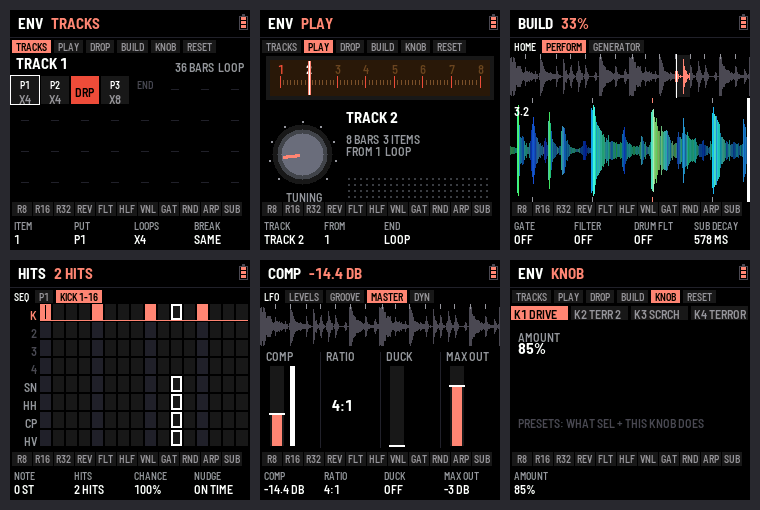
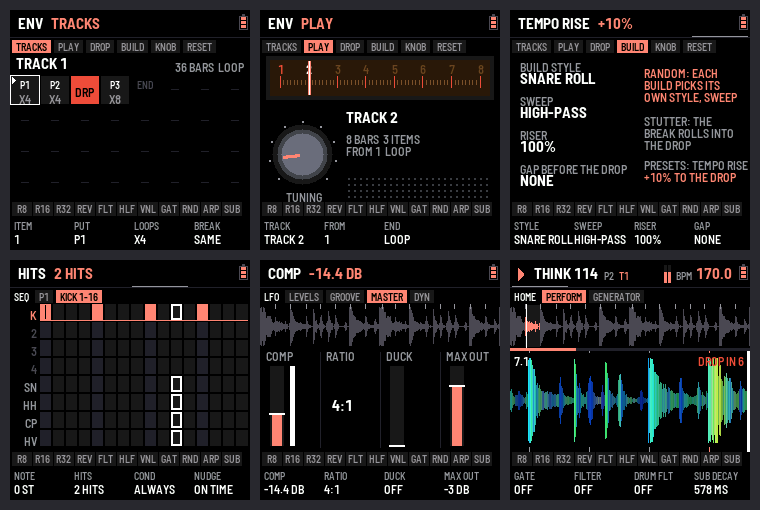
LOAF BREAKER takes the test firmware's changes (test-v9.03); its README, manual and site with them
The test firmware merged as it was tried: FILL on ARP, a drum step's COND, the kick's
GLIDE and REVERSE BASS, MB OTT, BUILD's TEMPO RISE, the visuals (CRT, beat-lit tempo,
kick flashes, the track's progress and DROP IN, the kick's live scope, knob arcs, a
glitched start-up, the build's lights), HOTPANT and the OVERLAY page out.

The README in LOAF BREAKER's dress: its picture, the site's links, what it is for; the
manual, the control map and the site's front page as the firmware is now (8 breaks,
FILL, COND, BASS, MB OTT, TEMPO RISE, CRT); the screenshots taken again; loaftest in
the release's scenarios.

Claude-Session: https://claude.ai/code/session_01SezACdoJJxH9cT2JHvLkit

diff --git a/app/site/controlmap.html b/app/site/controlmap.html
@@ -167,10 +167,10 @@
       { n: "GENERATOR", k: ["COMPLEXITY", "ANCHOR", "ROLL", "FILL"], strip: "16 SLICE BLOCKS", note: "HOME again" } ],
       algo: "Break (next bar)", brk: true, presets: "Pattern P1–P16", keys: "slices",
       notes: [["SEL", "Pressed alone: every combination"], ["SEL + ALGO · SEL + PRESETS", "Break · pattern, any page"], ["ARP", "The overlays"]] },
-    { id: "arp", btn: "ARP", name: "OVERLAY", sub: "Sixteen effects to hold", again: "nothing", subs: [
-      { n: "OVERLAY", k: ["AMOUNT", "RATE", "SWEEP", "LATCH"], strip: "16 EFFECT CARDS, 4 × 4 · LIT WHILE ON · EACH ITS AMOUNT", note: "Hold a key: its effect, over everything" } ],
-      algo: "Break", presets: "Pattern P1–P16", keys: "overlays",
-      notes: [["Keys 1-8", "DIVE RISE RADIO WAH CRUSH LO-FI DIST RING"], ["Keys 9-16", "CHOP GATE DUCK PAN BOOM WOBBLE JET CUT"], ["K4 LATCH", "A press on, a press off (stays on other pages)"], ["SEL + ARP", "A random pattern (SEL + SAVE undoes)"]] },
+    { id: "arp", btn: "ARP", name: "FILL", sub: "Held: a fill", again: "nothing", subs: [
+      { n: "FILL", k: ["", "", "", ""], strip: "THE PAGE YOU ARE ON STAYS", note: "Hold: FILL steps play, NOT FILL rest, the snare rolls the last beat" } ],
+      algo: "Break", presets: "Pattern P1–P16", keys: "slices",
+      notes: [["ARP held", "FILL, while held"], ["SEL + ARP", "A random pattern (SEL + SAVE undoes)"], ["ARP black key", "Its overlay effect, as ever"]] },
     { id: "fx", btn: "FX", name: "FX CHAIN", sub: "Four slots in series", again: "next part (MAIN, MORE, MOD), then the next slot", part: true, subs: [
       { n: "MAIN", k: ["PARAM 1", "PARAM 2", "PARAM 3", "MIX"], strip: "THE EFFECT LIVE · THE CHAIN · ITS MODULATOR · IN / OUT", note: "ALGORITHM: the slot (1–4)" },
       { n: "MORE", k: ["EXTRA 1", "EXTRA 2", "EXTRA 3", "EXTRA 4"], strip: "THE EFFECT LIVE · THE CHAIN · ITS MODULATOR · IN / OUT", note: "each effect its own: see §6" },
@@ -178,15 +178,15 @@
       algo: "Slot", presets: "Effect", keys: "slices",
       notes: [["SEL + FX", "Bypass the focused slot"], ["FX held + ALGO", "Move the slot along the chain"], ["Key held + FX", "That key's slice effect on K1–K4"],
               ["MB COMP focused", "FX again steps AMOUNT · LOW · MID · HIGH · GAIN · X-OVER, then the next slot"],
-              ["MB COMP · band", "THRESH · RATIO · ATTACK · RELEASE"], ["MB COMP · GAIN / X-OVER", "LOW MID HIGH SOLO · LOW X HIGH X KNEE OUTPUT"]] },
-    { id: "glo", btn: "GLO", name: "GLOBAL", sub: "MIDI, pitch, Bluetooth audio", again: "next part (3)", subs: [
-      { n: "MIDI", k: ["CLOCK IN", "CLOCK OUT", "BLUETOOTH", "MIDI TO"], strip: "BLUETOOTH · CLOCK IN · CLOCK OUT · PORTS", note: "status" },
+              ["MB COMP · band", "THRESH · RATIO · ATTACK · RELEASE"], ["MB COMP · GAIN / X-OVER", "LOW MID HIGH SOLO · LOW X HIGH X KNEE OUTPUT"], ["PRESETS after MB COMP", "MB OTT; in KICK FX also MB KICK"]] },
+    { id: "glo", btn: "GLO", name: "GLOBAL", sub: "MIDI, pitch, skins", again: "next part (3)", subs: [
+      { n: "MIDI", k: ["CLOCK IN", "CLOCK OUT", "", "MIDI TO"], strip: "CLOCK IN · CLOCK OUT · PORTS", note: "USB and the TRS jack, no Bluetooth" },
       { n: "PITCH", k: ["PITCH", "GRAIN", "SNAP", "RESET ALL"], strip: "PITCH MODE · GRAIN · SNAP", note: "what the snap is in this break" },
-      { n: "BT AUDIO", k: ["BT AUDIO", "DEVICE · CODEC*", "SCAN · TEST L/R*", "CONNECT"], strip: "BT AUDIO: STATE · DEVICES", note: "* while streaming" } ],
-      algo: "Part", presets: "Pattern P1–P16", keys: "slices", notes: [["K4 RESET ALL", "Turn twice within 3 s"]] },
+      { n: "MORE", k: ["SKIN", "AUTO SAVE", "CRT", ""], strip: "THE SKINS' COLOURS", note: "CRT: an old tube's lines" } ],
+      algo: "Part", presets: "Pattern P1–P16", keys: "slices", notes: [["K4 RESET ALL", "Fifteen turns right"]] },
     { id: "edit", btn: "EDIT", name: "KICK", sub: "The kick, in four sections; SEL + EDIT: the other drums", again: "next section (4)", part: true, subs: [
       { n: "SOUND", k: ["(MIX, SUB, PUNCH,", "GRIT, CLICK,", "OUT: ALGO)", ""], strip: "THE KICK'S WAVE, ITS PITCH FALLING · 4 KNOB CARDS", note: "MIX: SUB PUNCH GRIT CLICK; a layer: LEVEL PITCH DECAY TONE" },
-      { n: "SYNTH", k: ["DROP · RUMBLE", "TIME · LENGTH", "SHAPE · ASYM", "HOLD · TUNE"], strip: "THE KICK'S WAVE · 4 KNOB CARDS", note: "SYNTH, SYNTH +, MACRO" },
+      { n: "SYNTH", k: ["DROP · RUMBLE", "TIME · LENGTH", "SHAPE · ASYM", "HOLD · TUNE"], strip: "THE KICK'S WAVE · 4 KNOB CARDS", note: "SYNTH, SYNTH +, BASS (GLIDE, REV BASS, START, CURVE), MACRO" },
       { n: "DIRT", k: ["AMOUNT · DRIVE", "SUB · TYPE", "FIZZ · SCREECH", "SUSTAIN · TAIL"], strip: "THE KICK'S WAVE · 4 KNOB CARDS", note: "TERROR, TERROR +, TERROR 2, the layers' effects" },
       { n: "TONE", k: ["LOW", "MID", "HIGH", "FREQ"], strip: "ITS EQ CURVE · ITS FX SLOTS", note: "EQ BANDS, EQ SHAPE, FX 1, FX 2" },
       { n: "SNARE · HAT · CLAP · HOOVER", k: ["LEVEL", "TUNE", "DECAY", "TONE"], strip: "6 SETTINGS · THE 5 DRUMS", note: "SEL + EDIT; EDIT again: the next" } ],
@@ -202,7 +202,7 @@
       { n: "TRACKS", k: ["ITEM", "PUT", "LOOPS", "BREAK"], strip: "THE TRACK'S 32 ITEMS: PATTERNS, DROPS", note: "a white key puts its pattern in; ALGORITHM moves along the items; ENV held: a space after the item; SEL + PLAY: start here; PLAY: the track from there" },
       { n: "PLAY", k: ["TRACK", "FROM", "END", ""], strip: "THE TRACK, THE ITEM PLAYING", note: "PLAY: the track, then HOME" },
       { n: "DROP", k: ["BUILD", "AFTER", "BREAK", "CRASH"], strip: "THE DROP'S SETTINGS", note: "SEL x3: the build from the next bar" },
-      { n: "BUILD", k: ["STYLE", "SWEEP", "RISER", "GAP"], strip: "THE BUILD BEFORE A DROP", note: "RANDOM: each build its own" },
+      { n: "BUILD", k: ["STYLE", "SWEEP", "RISER", "GAP"], strip: "THE BUILD BEFORE A DROP", note: "PRESETS: TEMPO RISE, up to +30 % to the drop" },
       { n: "KNOB", k: ["(ITS 1ST)", "(ITS 2ND)", "(ITS 3RD)", "(ITS 4TH)"], strip: "WHAT SEL + K1..K4 DOES", note: "ALGO the knob, PRESETS its function" },
       { n: "RESET", k: ["WHAT", "", "", "RESET"], strip: "DROP · BUILD · KNOB BACK TO THE START", note: "K4 right twice within 3 s" } ],
       algo: "TRACKS: the item; else the break (next bar)", brk: true, presets: "Track 1–8", keys: "patterns / tracks",
@@ -210,7 +210,7 @@
     { id: "seq", btn: "SEQ", name: "SEQUENCER", sub: "16 patterns, all the steps", again: "next lane (5)", subs: [
       { n: "1-16", k: ["SLICE", "PITCH", "HITS", "REVERSE"], strip: "16 STEPS · THE DRUM LANES", note: "the step edited outlined" },
       { n: "17-32", k: ["SLICE", "PITCH", "HITS", "REVERSE"], strip: "16 STEPS · THE DRUM LANES", note: "" },
-      { n: "KICK", k: ["FILL", "DRUM FLT", "CLR / 4X4", "LENGTH"], strip: "THE KEYS: THIS LANE'S STEPS · LANES", note: "a step held: NOTE, HITS, CHANCE, NUDGE" },
+      { n: "KICK", k: ["FILL", "DRUM FLT", "CLR / 4X4", "LENGTH"], strip: "THE KEYS: THIS LANE'S STEPS · LANES", note: "a step held: NOTE, HITS, COND (chance, 1:2, 2:2, FILL, NOT FILL), NUDGE" },
       { n: "SNARE", k: ["FILL", "DRUM FLT", "CLR / 4X4", "LENGTH"], strip: "THE KEYS: THIS LANE'S STEPS · LANES", note: "" },
       { n: "HAT", k: ["FILL", "DRUM FLT", "CLR / 4X4", "LENGTH"], strip: "THE KEYS: THIS LANE'S STEPS · LANES", note: "" } ],
       algo: "Lane", presets: "Pattern P1–P16", keys: "steps",

diff --git a/app/docs/MANUAL.md b/app/docs/MANUAL.md
@@ -51,7 +51,9 @@ The slicer view, top to bottom:
 
 - **Header:** play or stop, the break's name, the pattern (P1–P16; "P2>" while P2 waits for the loop's end), REC
   while recording, a level meter (left and right, what leaves after MASTER: amber from
-  −8 dB, white near full scale), the tempo.
+  −8 dB, white near full scale), the tempo: lit white on each beat. The line under the header flashes on each kick
+  and a tick under it walks the bar's four beats. The PLAY light blinks off on each kick, and during a build the
+  next white key to light blinks, faster as the drop nears.
 - **Tabs:** the button you pressed (as printed on the panel), then the page's parts as tabs, the one you are on lit:
   the button again (or ALGORITHM) goes to the next. On EDIT and FX the part edited shows at the right, "< SUB FX >".
   Opening a page, or turning to another part, says the same in the header for a moment: the button, then the part
@@ -61,12 +63,13 @@ The slicer view, top to bottom:
 - **Slice blocks:** sixteen blocks, one per white key, each with its slice's waveform. The slice sounding is lit;
   a key held is outlined; a dot marks a key with a loop of its own (§3, key loops).
 - **Pads:** the eleven black-key pads, lit while held.
-- **Knobs:** the page's four knobs and their values.
+- **Knobs:** the page's four knobs and their values; where the page knows how far a knob is turned (an FX slot, the
+  MIXER's levels, the kick's classic view), an arc beside the value shows it.
 
 **The rules.** ALGORITHM picks what you edit on the page (an FX slot, a drum's part, a SEQ lane, GLOBAL's part); on HOME (both its parts) and the MIXER, where there is nothing to pick, it is the break. PRESETS picks what goes
 in (an effect, a kick, a snare or hat sound); elsewhere it is the pattern. **SEQ is where everything is sequenced**
 (the break's steps and the kick, snare and hat lanes), **EDIT where the drums' sounds are made** (kick, snare, hat);
-the white keys play slices everywhere but SEQ, ENV (tracks) and ARP (overlays). **SEL + ALGORITHM is the break and SEL +
+the white keys play slices everywhere but SEQ and ENV (tracks). **ARP held is FILL** (§5). **SEL + ALGORITHM is the break and SEL +
 PRESETS the pattern on every page.** A page's button pressed again is its next part. **Press SEL** alone and the strip
 lists its combinations (SEL again, or any other button, key or knob, closes it). The control map (§11) shows all of it at once.
 
@@ -87,7 +90,7 @@ lists its combinations (SEL again, or any other button, key or knob, closes it).
 | PRESETS | The pattern, P1–P16 (§5); while playing the new one starts at the end of the loop |
 | SEQ · REC | The sequencer; recording the keys into the pattern (§5). SEL + REC: clear the pattern (SEL + SAVE takes it back) |
 | MIDI notes | Notes 48–63 (C3–D#4) play slices 1–16, held like the white keys; 36 the kick, 38 the snare, 42 / 44 / 46 the hat (§8); any channel |
-| ALGORITHM | (HOME, MIXER; SEL held: any page) The next or previous break: its name shows at once (amber in the header) and, while playing, it comes in at the next bar (the old one goes quiet for the bar's last 16th meanwhile); stopped, at once. THINK 114 (Lyn Collins), NUSKOOL 140, UPDOWN 165, APACHE 115 (Incredible Bongo Band), CHOPPER 172, DRUMMER 100 (James Brown, Funky Drummer), THEWORM 110 (Jimmy McGriff), HOTPANT 115 (Bobby Byrd), AMEN19 172 (The Winstons): 2 bars each, played at the tempo you set |
+| ALGORITHM | (HOME, MIXER; SEL held: any page) The next or previous break: its name shows at once (amber in the header) and, while playing, it comes in at the next bar (the old one goes quiet for the bar's last 16th meanwhile); stopped, at once. THINK 114 (Lyn Collins), NUSKOOL 140, UPDOWN 165, APACHE 115 (Incredible Bongo Band), CHOPPER 172, DRUMMER 100 (James Brown, Funky Drummer), THEWORM 110 (Jimmy McGriff), AMEN19 172 (The Winstons): 2 bars each, played at the tempo you set |
 | MASTER | Volume |
 
 ### Where things are
@@ -100,7 +103,7 @@ lists its combinations (SEL again, or any other button, key or knob, closes it).
   second): the classic view (the part's knobs as bars, the layers' levels, the five drums' shapes, the break's wave
   above), held again: the big view; the part stays where it is.
   - **SOUND**: MIX, SUB, PUNCH, GRIT, CLICK, OUT.
-  - **SYNTH**: SYNTH, SYNTH +, MACRO.
+  - **SYNTH**: SYNTH, SYNTH +, BASS, MACRO.
   - **DIRT**: TERROR, TERROR + (DRIVE, TYPE, SCREECH, TAIL), TERROR 2, then each layer's effect.
   - **TONE**: EQ BANDS, EQ SHAPE (its EQ), FX 1, FX 2 (its two FX slots).
   The TERRORs' settings are the kick's own: they go with its memory. **SEL + EDIT**: the other drums (SNARE, HAT, CLAP,
@@ -113,6 +116,10 @@ lists its combinations (SEL again, or any other button, key or knob, closes it).
   - **SYNTH +**: RUMBLE (the kick low-passed into a feedback line under it: the rolling hardcore rumble between kicks),
     LENGTH (the rumble's echo, 23–93 ms), ASYM (an uneven drive: even harmonics, warmer and harder), TUNE (the whole kick,
     −12 .. +12 semitones).
+  - **BASS**: **GLIDE** (the kick's pitch sliding from one step's note to the next, 0–400 ms: give the kick's steps
+    notes in SEQ and it slides between them), **REV BASS** (the rawstyle reverse bass: the kick's sub at its note
+    swelling up between two kicks, cut as the next one hits; it goes through the kick's drive and TERROR), **START**
+    (where in the beat it begins, 1/8 to 5/8), **CURVE** (how it swells: SLOW, SOFT, SHARP, SNAP).
   At 0 each sounds as the kick always did. They go with its memory (KICK 1–10); its PRESET puts them back to 0.
 - **LFO** (the MIXER): LEVELS, GROOVE, MASTER (K1 COMP, K2 its RATIO, K3 DUCK, K4 MAX OUT; COMP's reduction metered),
   DYNAMICS (COMP's ATTACK and RELEASE, DUCK's RELEASE, DUCKS: the break, or the break and the drums).
@@ -125,7 +132,8 @@ lists its combinations (SEL again, or any other button, key or knob, closes it).
 scrolling in from the right, the playhead at the right edge, as a track on a CDJ. Each column is coloured as
 rekordbox's RGB waveform: the lows red, the mids green, the highs blue, mixed (a kick reads red to orange, a snare
 green to cyan, the hats blue), as tall as its peak. 4 beats fill the screen; the beats are ticked top and bottom (the
-bar's first lit) and the bar and beat counted top left. **Hold HOME** (a third of a second) for the slice blocks
+bar's first lit) and the bar and beat counted top left. While a track plays, a line along the top shows how far
+along it is, and "DROP IN 4" counts the bars to its next DROP. **Hold HOME** (a third of a second) for the slice blocks
 instead, hold it again for the waveform; neither moves to HOME's next part.
 
 ![The CDJ view: the break and a kick scrolling in, the playhead at the right edge](img/c_cdj_gen.png "CDJ view") ![HOME held: the sixteen slice blocks, the slice sounding lit](img/screen-slices.png "The slices")
@@ -163,7 +171,8 @@ metronome and tap tempo are gone).
   break itself rolled in 8ths, 16ths then 32nds), SWEEP ONLY (the drums play on, only the filter and the noise build),
   RANDOM (each build picks one). **K2 SWEEP**: HIGH-PASS (as ever), LOW-PASS (closing down to ~400 Hz), NONE, RANDOM.
   **K3 RISER**: the rising noise, OFF to 200 % (100 %: as it was). **K4 GAP**: silence just before the drop (none, a
-  16th, an 8th, a beat, half a bar), so the drop hits out of nothing.
+  16th, an 8th, a beat, half a bar), so the drop hits out of nothing. **PRESETS: TEMPO RISE**, OFF to +30 %: the
+  tempo climbs with the build and drops back to yours at the drop (not while following a MIDI clock).
 - **RESET** (ENV's last part): puts a part back as it starts. **K1** picks what (DROP, BUILD, KNOB for now: each
   says on the right what it puts back), **K4** turned right twice within 3 s resets it (once only arms it: "TURN K4
   AGAIN TO RESET").
@@ -263,13 +272,13 @@ comes round (the header shows "P2>").
 
 **SEQ** opens the sequencer. **ALGORITHM** (or **SEQ again**) picks what the white keys edit:
 
-![SEQ: the break's steps and the drum lanes](img/screen-seq.png "The SEQ page") ![A kick step held: NOTE, HITS, CHANCE, NUDGE on K1–K4](img/screen-step.png "A step held")
+![SEQ: the break's steps and the drum lanes](img/screen-seq.png "The SEQ page") ![A kick step held: NOTE, HITS, COND, NUDGE on K1–K4](img/screen-step.png "A step held")
 
 | Lane | White keys | K1 | K2 | K3 | K4 |
 | --- | --- | --- | --- | --- | --- |
 | STEPS 1-16, STEPS 17-32 | Pick a step to edit (outlined) | SLICE: OFF · LOOP · 1–16 | PITCH: −12 … +12 | HITS: ×1–×4 (a ratchet in the step) | REVERSE |
 | KICK, SNARE, HAT, CLAP, HOOVER | That lane's 16 steps, on and off (as the key comes up) | FILL: 0–16 hits spread evenly from the downbeat (Euclidean) | DRUM FLT (HOME's drums' filter) | Left CLEAR, right 4X4, 8X8, 16X16, 2-STEP, HALF-TIME | LENGTH: 16 or 32 steps (the kick: 16, 32, 64) |
-| **A step held** (a drum lane) | its own, the foot naming them | NOTE: −8 … +7 semitones (the kick's and the hoover's) | **HITS**: 1–4, the step taps that many times in its 16th | **CHANCE**: 100 % down to 12 % (it plays that often) | **NUDGE**: on time .. 7/16 of a step late |
+| **A step held** (a drum lane) | its own, the foot naming them | NOTE: −8 … +7 semitones (the kick's and the hoover's) | **HITS**: 1–4, the step taps that many times in its 16th | **COND**: ALWAYS, 75 %, 50 %, 25 % (it plays that often), 1:2 (the first loop of two), 2:2 (the second), FILL (only while ARP is held), NOT FILL (never then) | **NUDGE**: on time .. 7/16 of a step late |
 
 The upper strip shows the half's 16 steps (a number: its own slice; a dot: LOOP; a dash: off; a mark under it: hits
 or reverse), the step playing lit; the lower strip all three drum lanes.
@@ -280,45 +289,11 @@ the keys play slices) is written into the pattern at the step it lands on, and s
 other page the whole pattern. SEL + ARP (a random pattern) writes into the pattern playing. **SEL + SAVE undoes**
 either (and FILL, CLR / 4X4 and COPY on a drum lane); press it again to redo. SAVE keeps all 16.
 
-### Overlays
+### FILL (ARP)
 
-**ARP** opens OVERLAY: sixteen effects on the white keys, over everything that plays (the break, the drums, the FX
-chain's tails). Hold a key and its effect comes in (a 5 ms fade, no click), let go and it goes; hold several and
-they stack. With **LATCH** on (K4) a press switches an effect on and the next press off, and what is latched stays on
-when you go to another page, so you can play slices on HOME through it.
-
-![OVERLAY: DIVE and CHOP held (lit), CHOP touched last](img/screen-overlay.png "OVERLAY")
-
-| White key | Effect | What it does | AMOUNT (K1) |
-| --- | --- | --- | --- |
-| 1 | DIVE | A low-pass sweeping down over the SWEEP | How far down (and its resonance) |
-| 2 | RISE | A high-pass sweeping up over the SWEEP | How far up |
-| 3 | RADIO | A narrow band at 1.3 kHz, a little driven: a telephone, a radio | Its mix and how narrow |
-| 4 | WAH | A resonant band rising and falling on the beat (half the RATE) | Its mix and resonance |
-| 5 | CRUSH | Fewer bits | 15 bits down to 3 |
-| 6 | LO-FI | A lower sample rate: each sample held | Held 2 to 24 times |
-| 7 | DIST | Overdrive | Its drive |
-| 8 | RING | A ring modulator | Its pitch, 90 Hz to 1.2 kHz |
-| 9 | CHOP | The sound cut off and on at the RATE | How deep the cut |
-| 10 | GATE | The same, twice as fast | How deep |
-| 11 | DUCK | A pump: down on each beat, swelling back over it | How deep |
-| 12 | PAN | Left to right and back, a cycle every four of the RATE | How wide |
-| 13 | BOOM | The low end up, soft-clipped | How much |
-| 14 | WOBBLE | Tape wow and flutter: the pitch wandering | How far |
-| 15 | JET | A flanger sweeping once a bar | Its mix |
-| 16 | CUT | Silence: a hole for a drop | How much quieter |
-
-The cards light while their effect sounds, a latched one is outlined amber, the one K1 tunes is outlined white, and
-the bar on each card is its amount (each keeps its own). The white keys light for the effects on.
-
-| Knob | Sets |
-| --- | --- |
-| K1 AMOUNT | The amount of the effect touched last, 0–100 % |
-| K2 RATE | CHOP's rate: 1/4 · 1/8 · 1/16 (the start) · 1/32; GATE twice it, WAH half, PAN a quarter |
-| K3 SWEEP | How long DIVE and RISE take to get there: 1/4 bar · 1/2 bar · 1 bar (the start) · 2 bars |
-| K4 LATCH | OFF (on while held) · ON (a press switches on and off; turning it off lets go of all) |
-
-They follow the tempo playing (stopped, they keep time by themselves). SAVE keeps the amounts and the knobs.
+**Hold ARP** for a fill: the steps whose COND is FILL play, the ones set NOT FILL rest, and the snare rolls through
+the last beat of each bar. Let go and the pattern is as it was. **SEL + ARP** still writes a random pattern. (The
+OVERLAY page that ARP used to open is gone; the ARP black key keeps its effect, chosen on its own knobs.)
 
 ## 6. The FX chain
 
@@ -350,6 +325,11 @@ the body, where TERROR's distortion sits, is tamed (−20 dB, 4:1, 5 / 80 ms); t
 (−30 dB, 8:1, 1 / 50 ms) above 3 kHz; a 3 dB knee, every band at full amount, all wet. It is an MB COMP: its AMOUNT
 knobs ride each band (the foot shows the ratio each reaches) and FX turns through its detail to change anything. A
 CLIP in the other slot after it makes it loud without the mush. PRESETS on, or back: a plain MB COMP.
+
+**MB OTT** comes after MB COMP in PRESETS, in the FX chain and in KICK FX (after MB KICK): the dense "over the top"
+sound. Every band pressed hard and fast (−36 dB, 10:1, 1 ms in, 60 ms out) and pushed back up after it (+6 dB the
+low, +9 dB the mid and high), split at 88 Hz and 2.5 kHz, a 6 dB knee, −3 dB out and 60 % wet: the loud parts come
+down while the quiet ones, the tails and the room, come up.
 
 ![MB KICK: the sub, the body and the click held apart, split at 120 Hz and 3 kHz](img/screen-mbkick.png "MB KICK")
 
@@ -515,7 +495,7 @@ tempo's own repitch, HALF, REVERSE's speed and the tape stop stay speed effects.
 
 **MORE (GLO three times):** K1 **SKIN**, the screen's colours (RED to start; the whole screen changes at once); K2
 **AUTO SAVE**, ON: what you change is saved by itself a minute after the last change, once stopped (the flash is
-never written while it plays).
+never written while it plays); K3 **CRT**, ON: every other line of the screen dimmed, as an old tube.
 
 ![GLOBAL's MORE: the skins](img/screen-glomore.png "MORE")
 
@@ -616,7 +596,6 @@ break alone: sweep it down and the drums stay full on top. The FLT pad throws it
 | GLO (global) | Clock in | Clock out | (not used) | MIDI to |
 | GLO again (pitch, snap) | Keep length / speed | Grain | Snap | Reset all (twice) |
 | GLO a third time (BT audio) | On / off | Device | Scan | Connect / hang up |
-| ARP (overlay; white keys hold effects) | Amount (the effect touched last) | Rate | Sweep | Latch |
 | ENV TRACKS (PRESETS: the track; a white key: its pattern in) | Item | Pattern / DROP / END | Loops | Its break |
 | ENV PLAY (PLAY: the track) | Track | From item | At the end | |
 | ENV DROP | Build bars | After the drop | Break | Crash |
@@ -630,7 +609,7 @@ the slice lit in the waveform shrinks with it. It covers the loop's slices, ratc
 
 The generator rearranges the break as it plays: **complexity** is how often it jumps, **anchor** keeps the kick and
 snare on the beats, **roll** repeats a slice or takes the one next to it, **fill** breaks the rules in the last bar
-of a phrase; it is HOME's second part (HOME again). SEL + ARP writes a random pattern (ARP alone opens the overlays).
+of a phrase; it is HOME's second part (HOME again). SEL + ARP writes a random pattern (ARP alone, held, is FILL).
 
 ## 11. The control map
 

diff --git a/README.md b/README.md
@@ -1,13 +1,33 @@
-# LOAF BREAKER: a hardcore break chopper for the M-VAVE FM-1
+<p align="center"><img src="docs/img/banner.png" alt="LOAF BREAKER" width="600"></p>
+
+<h1 align="center">LOAF BREAKER</h1>
+<p align="center"><b>A hardcore break chopper for the M-VAVE FM-1.</b><br>Terror · gabber · crossbreed · uptempo</p>
+
+<p align="center">
+<a href="https://flexor-r.github.io/loaf-breaker/"><b>Site</b></a> ·
+<a href="https://flexor-r.github.io/loaf-breaker/emu/">Try it in the browser</a> ·
+<a href="https://flexor-r.github.io/loaf-breaker/install/">Install</a> (with your install code) ·
+<a href="https://flexor-r.github.io/loaf-breaker/manual/">Manual</a> ·
+<a href="../../releases">Releases</a>
+</p>
 
 LOAF BREAKER is FLEXOR's firmware for the [M-VAVE FM-1](https://www.m-vave.com/), built on
 **[CHOPPAH](https://github.com/profikid/fm1-break-choppah)**, Laurens Profittlich's Amen chopper. It keeps CHOPPAH's
-heart (a break cut into sixteen slices on the white keys, effect pads on the black keys, a generator, a master
-effects chain, 16 patterns) and pushes it toward terror, gabber and crossbreed: a kick with its own menu, its own
-synth, TERROR, TERROR 2 and TERROR +, its own effects and a note on every step; a sequencer of 16, 32 or 64 steps with
-hits, chance and nudge per step; tracks of patterns with built-up drops; a HOOVER; a compressor, a ducker and an
-anti-clip MAX OUT; and a CDJ-style RGB waveform of what leaves the mix. Built on
-[fm1-base](https://github.com/charlesvestal/fm1-base) (MPL-2.0).
+heart (a break cut into sixteen slices on the white keys, effect pads on the black keys, a generator, a master effects
+chain, 16 patterns) and drives it into hardcore:
+
+- **The kick first.** Its own menu, its own synth (pitch drop, hold, rumble, tune), **TERROR**, **TERROR 2** and
+  **TERROR +**, a **GLIDE** between notes and the rawstyle **REVERSE BASS**, its own EQ and FX (**MB KICK**, **MB OTT**),
+  ten memories, a note on every step, and its real sound drawn live on screen.
+- **A sequencer for live.** Kick over 16, 32 or 64 steps; per step **NOTE, HITS, COND** (chance, 1:2, 2:2, FILL, NOT
+  FILL) and **NUDGE**; **ARP held = FILL**.
+- **Tracks and drops.** Patterns in order with loops and per-item breaks, a radio-style PLAY, builds that don't sound
+  alike (snare or kick rolls, stutter, sweeps, a gap, the **tempo rising** to the drop).
+- **A mix that holds.** COMP, DUCK, MAX OUT, a HOOVER synth, rolls on the break or the kick.
+- **A screen that moves.** The mix scrolling as a CDJ in rekordbox colours, the track's progress and "DROP IN 4",
+  beat-lit tempo, kick flashes, a CRT mode, a glitched start-up.
+
+Built on [fm1-base](https://github.com/charlesvestal/fm1-base) (MPL-2.0). No Bluetooth: MIDI over USB and the TRS jack.
 
 ![LOAF BREAKER's screens: the splash, the start screen, playing (the CDJ view), the slices, a key held, the KICK menu](docs/img/screens.png)
 
@@ -17,11 +37,11 @@ anti-clip MAX OUT; and a CDJ-style RGB waveform of what leaves the mix. Built on
 
 ![Live: TRACKS, PLAY (the radio), a build before the drop, a step's HITS, the MASTER (COMP, DUCK, MAX OUT), SEL + knob assignments](docs/img/live.png)
 
-- **The manual**: [app/docs/MANUAL.md](app/docs/MANUAL.md)
+- **The manual**: [online](https://flexor-r.github.io/loaf-breaker/manual/), or [app/docs/MANUAL.md](app/docs/MANUAL.md)
 - **Download the firmware**: [releases](../../releases) (`loaf-breaker-X.YY.fwsc`), each release also carries the
   site (emulator, installer, manual) as `loaf-breaker-site-X.YY.zip`. On the site the firmware is encrypted: the
   installer asks for the **install code** (the repository's Actions secret `LOAF_INSTALL_CODE`; without it, installing
-  is closed). `tools/site_lock.py` does it
+  is closed; `tools/site_lock.py` does it).
 - **Install**: fm1-base's web installer (Chrome or Edge, the FM-1 plugged in), or
   `python3 base/tools/fm1_install.py loaf-breaker-X.YY.fwsc`
 
@@ -41,19 +61,19 @@ M-VAVE's original firmware first ([docs/FLASHING.md](docs/FLASHING.md)).
 | SELECT | Tempo (SEL held: 0.1 BPM) · SEL + SELECT: the kick's memories 1–10 |
 | SEL | **SEL + K1–K4**: four live functions you assign (DRIVE, TERROR, TERROR 2, TERROR +, its TYPE, SCREECH, TAIL…) · **SEL ×2**: the effect under your hands back to its start (again within 4 s: undo) · **SEL ×3**: the drop · **SEL + ALGORITHM** the break, **SEL + PRESETS** the pattern · **SEL + SEQ** copy, then paste the pattern · **SEL + SAVE** undo · SEL alone: every combination on the strip |
 | HOME | PERFORM and GENERATOR, with the **CDJ view** (the mix scrolling in, rekordbox's RGB colours, the playhead at the right edge); HOME held: the slices |
-| EDIT | The **KICK menu**: SOUND, SYNTH (DROP, HOLD, RUMBLE, ASYM, TUNE…), DIRT (TERROR, TERROR 2, TERROR +), TONE (EQ and two FX slots of its own); EDIT again: the next section; EDIT held: the classic view. **SEL + EDIT**: the snare, the hat, the clap and the HOOVER |
-| SEQ | The sequencer: the break's steps and the drum lanes, the kick over 16, 32 or 64 steps. **A step held**: K1 NOTE, K2 HITS (1–4 taps in the step), K3 CHANCE, K4 NUDGE. SEQ held, then SEQ again: clear the pattern |
-| ENV | **TRACK**: TRACKS (patterns, loops, drops and each item's own break; ENV held: a space after the item, or the space taken out), PLAY (a radio: tune a track, press PLAY), DROP, BUILD (the build before a drop: style, sweep, riser, a gap), KNOB (what SEL + each knob does), RESET |
+| EDIT | The **KICK menu**: SOUND, SYNTH (DROP, HOLD, RUMBLE, ASYM, TUNE…; BASS: GLIDE between notes, the rawstyle REVERSE BASS), DIRT (TERROR, TERROR 2, TERROR +), TONE (EQ and two FX slots of its own); EDIT again: the next section; EDIT held: the classic view. **SEL + EDIT**: the snare, the hat, the clap and the HOOVER |
+| SEQ | The sequencer: the break's steps and the drum lanes, the kick over 16, 32 or 64 steps. **A step held**: K1 NOTE, K2 HITS (1–4 taps in the step), K3 COND (chance, 1:2, 2:2, FILL, NOT FILL), K4 NUDGE. SEQ held, then SEQ again: clear the pattern |
+| ENV | **TRACK**: TRACKS (patterns, loops, drops and each item's own break; ENV held: a space after the item, or the space taken out), PLAY (a radio: tune a track, press PLAY), DROP, BUILD (the build before a drop: style, sweep, riser, a gap; PRESETS: the tempo rising to the drop), KNOB (what SEL + each knob does), RESET |
 | LFO | The **MIXER**: LEVELS, GROOVE, MASTER (COMP, RATIO, DUCK, MAX OUT), DYN (the compressor's and the ducker's timing) |
-| FX | The master FX chain: four slots (FILTER, CRUNCH, DRIVE, PUNCH, FLANGER, RING MOD, TREMOLO, REVERB, DELAY, EQ, TAPE, MB COMP, CLIP); each effect remembers its settings when you change it and back |
-| ARP | OVERLAY: sixteen effects on the white keys over everything (DIVE, RISE, CRUSH, REESE…) · SEL + ARP: a random pattern |
-| GLO | GLOBAL: MIDI clock in and out (USB, TRS); the pitch and snap, RESET ALL; MORE: the skins, AUTO SAVE |
+| FX | The master FX chain: four slots (FILTER, CRUNCH, DRIVE, PUNCH, FLANGER, RING MOD, TREMOLO, REVERB, DELAY, EQ, TAPE, MB COMP, CLIP); each effect remembers its settings when you change it and back; presets MB KICK and MB OTT after MB COMP |
+| ARP | **Held: FILL** (the steps set FILL play, NOT FILL rest, the snare rolls the bar's last beat) · SEL + ARP: a random pattern |
+| GLO | GLOBAL: MIDI clock in and out (USB, TRS); the pitch and snap, RESET ALL; MORE: the skins, AUTO SAVE, CRT |
 | SAVE | Keep the settings, the patterns, the tracks and the steps |
 
 ## Breaks
 
-LOAF BREAKER has 9 breaks on ALGORITHM, 2 bars each: THINK 114, NUSKOOL 140, UPDOWN 165, APACHE 115, CHOPPER 172,
-DRUMMER 100, THEWORM 110, HOTPANT 115 and AMEN19 172. [`breaks/breaks.txt`](breaks/breaks.txt) marks with `*` the ones
+LOAF BREAKER has 8 breaks on ALGORITHM, 2 bars each: THINK 114, NUSKOOL 140, UPDOWN 165, APACHE 115, CHOPPER 172,
+DRUMMER 100, THEWORM 110 and AMEN19 172. [`breaks/breaks.txt`](breaks/breaks.txt) marks with `*` the ones
 built in (the bank has 400 KB); `./build.sh` builds them into `app/bank_data.h` (generated, git-ignored). The breaks
 are built in: LOAF BREAKER does not load samples of your own.
 

diff --git a/docs/PRD.md b/docs/PRD.md
@@ -163,6 +163,7 @@ Based on the behaviour of BB Gen / X0X's break part and ABG's "randomizing algor
 | A-49o | **Kick roll** (LOAF BREAKER): the roll pads' K2 (was the break's filter) THRU: BREAK (as ever), KICK (the kick hit at the pad's rate from the next step, the pattern's kicks out meanwhile; the break left alone), BOTH; in the pad settings' spare byte (an older save: BREAK). The pad's light and view say KICK / ALL ROLL | P1 | *Done; scenario kroll.txt (a bar of R16 kick roll: 16 hits)* |
 | A-49p | **A drum step's own** (LOAF BREAKER, SEQ): a step held on a drum lane, its keys acting as they come up (a knob turned meanwhile: no toggle), K1 NOTE (kick, hoover), K2 HITS (1–4 in its 16th), K3 CHANCE (100 % .. 12.5 %), K4 NUDGE (0 .. 7/16 late); the foot names them while held; the grid splits a tapping step, dims a chance's lower half, ticks a nudge. A byte a step (192 a pattern: the kick's 64, the others' 32) in a fifth store object, OBJ_STEP at 0xD8000 (an older save: none, the pattern's lane HITS of 0.110 on each step); copy, paste, undo, CLEAR take them. The render: a step's chance, its nudge and its repeats queued (16), the hits kept in order. K2 without a step held: DRUM FLT again | P1 | *Done; scenario hits.txt* |
 | A-49q | **SEL + R8 / R16 / R32**: a kick roll for that press, whatever THRU says (THRU untouched) | P2 | *Done; scenario kroll.txt* |
+| A-49v | **From the test firmware (test-v9.03), kept**: HOTPANT 115 out of the bank and the OVERLAY page out (the ARP black key keeps its effect); **ARP held: FILL**; a drum step's **COND** (ALWAYS, 75 %, 50 %, 25 %, 1:2, 2:2, FILL, NOT FILL, in CHANCE's bits); the kick's **BASS** part: GLIDE between notes and the REVERSE BASS (through the kick's drive and TERROR); **MB OTT** after MB COMP; ENV BUILD's **TEMPO RISE** (PRESETS, to +30 %); the visuals: a glitched start-up, the BPM lit on the beat, the header's line on each kick and the beat's tick, GLO MORE's **CRT**, the track's progress and DROP IN on the CDJ view, the kick's live scope, arcs on knob values, build and kick lights. Six setting bytes appended (kbass, drop_accel, crt) | P2 | *Done; scenario loaftest.txt, engine test test_kick_bass* |
 | A-49u | **TRACKS: where PLAY starts** (SEL + PLAY on the item edited; again: the first), each track its own, saved with it (`track_t.rsv[0]`, PLAY's FROM the same); PLAY on TRACKS plays the track from there and stays on TRACKS | P2 | *Done; scenario trkfrom.txt* |
 | A-49t | **MB KICK** (KICK FX's PRESETS, after MB COMP): an MB COMP preset for a gabber kick, KICK GABBER (120 Hz / 3 kHz splits; LOW −24 dB 6:1 15/120 ms, MID −20 dB 4:1 5/80 ms, HIGH −30 dB 8:1 1/50 ms; 3 dB knee; full amounts, all wet), marked in its detail's rsv[0] (no new setting); the MB COMP amount knobs' foot shows the ratio each band reaches from its detail (was 8:1 always) | P2 | *Done; scenario mbkick.txt* |
 | A-49s | **Each track item its break** (TRACKS K4, the END moving to PLAY's K3 alone): SAME or a break of the bank, asked for as the item comes (`break_ask`, swapped at the bar's end, so in with the item); a DROP into the item brings that break in DROP BREAK's place. Saved in OBJ_STEP after the drum steps (`steps.tb`, 256 B; an older save loads, no breaks) | P2 | *Done; scenario trkgap.txt* |

diff --git a/app/site/landing.md b/app/site/landing.md
@@ -11,8 +11,8 @@ HOOVER; a compressor, a ducker and MAX OUT; and the mix scrolling by as on a CDJ
 ![LOAF BREAKER's start-up screen: LOAF LORD's face and the name](manual/img/screen-boot.png "Switched on")
 ![LOAF BREAKER playing: the mix scrolling in as on a CDJ, in rekordbox's colours](manual/img/screen-slicer.png "Playing")
 
-Version {{VERSION}}. Installing is at your own risk; the installer can put M-VAVE's own firmware back. 9 breaks, 2 bars
-each: THINK, NUSKOOL, UPDOWN, APACHE, CHOPPER, DRUMMER, THE WORM, HOT PANTS, AMEN.
+Version {{VERSION}}. Installing is at your own risk; the installer can put M-VAVE's own firmware back. 8 breaks, 2 bars
+each: THINK, NUSKOOL, UPDOWN, APACHE, CHOPPER, DRUMMER, THE WORM, AMEN.
 
 - [Try it in the browser](emu/): the same code the FM-1 runs, with sound. No FM-1 needed.
 - [Install](install/): from Chrome or Edge, with the FM-1 connected by USB and the install code FLEXOR gives you.
